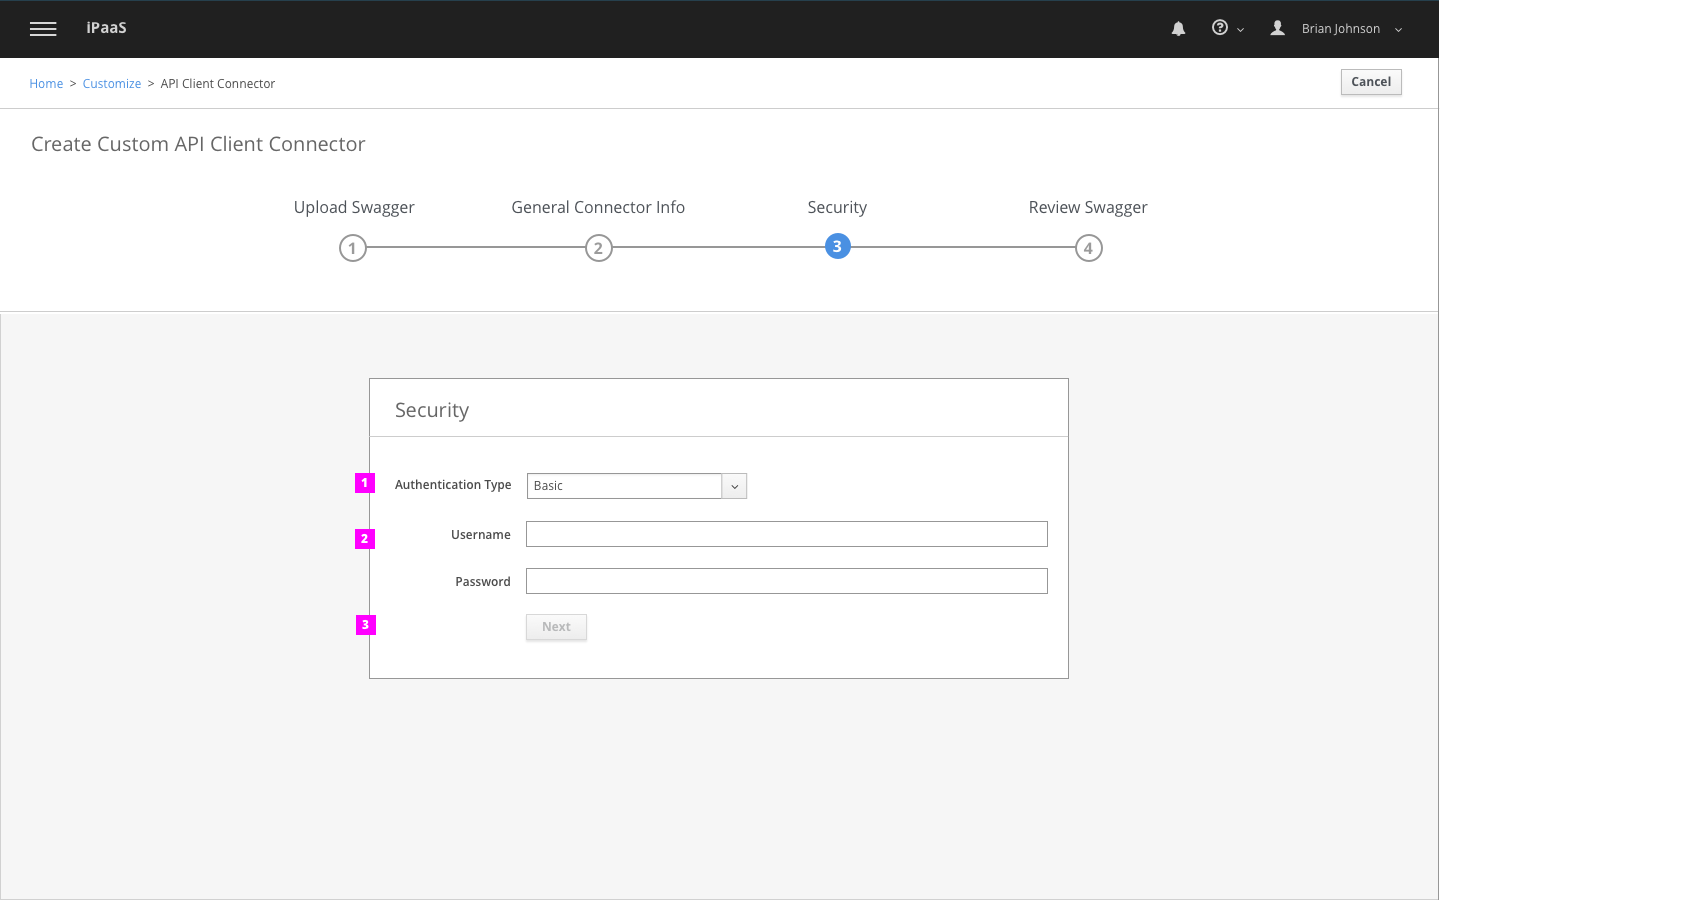
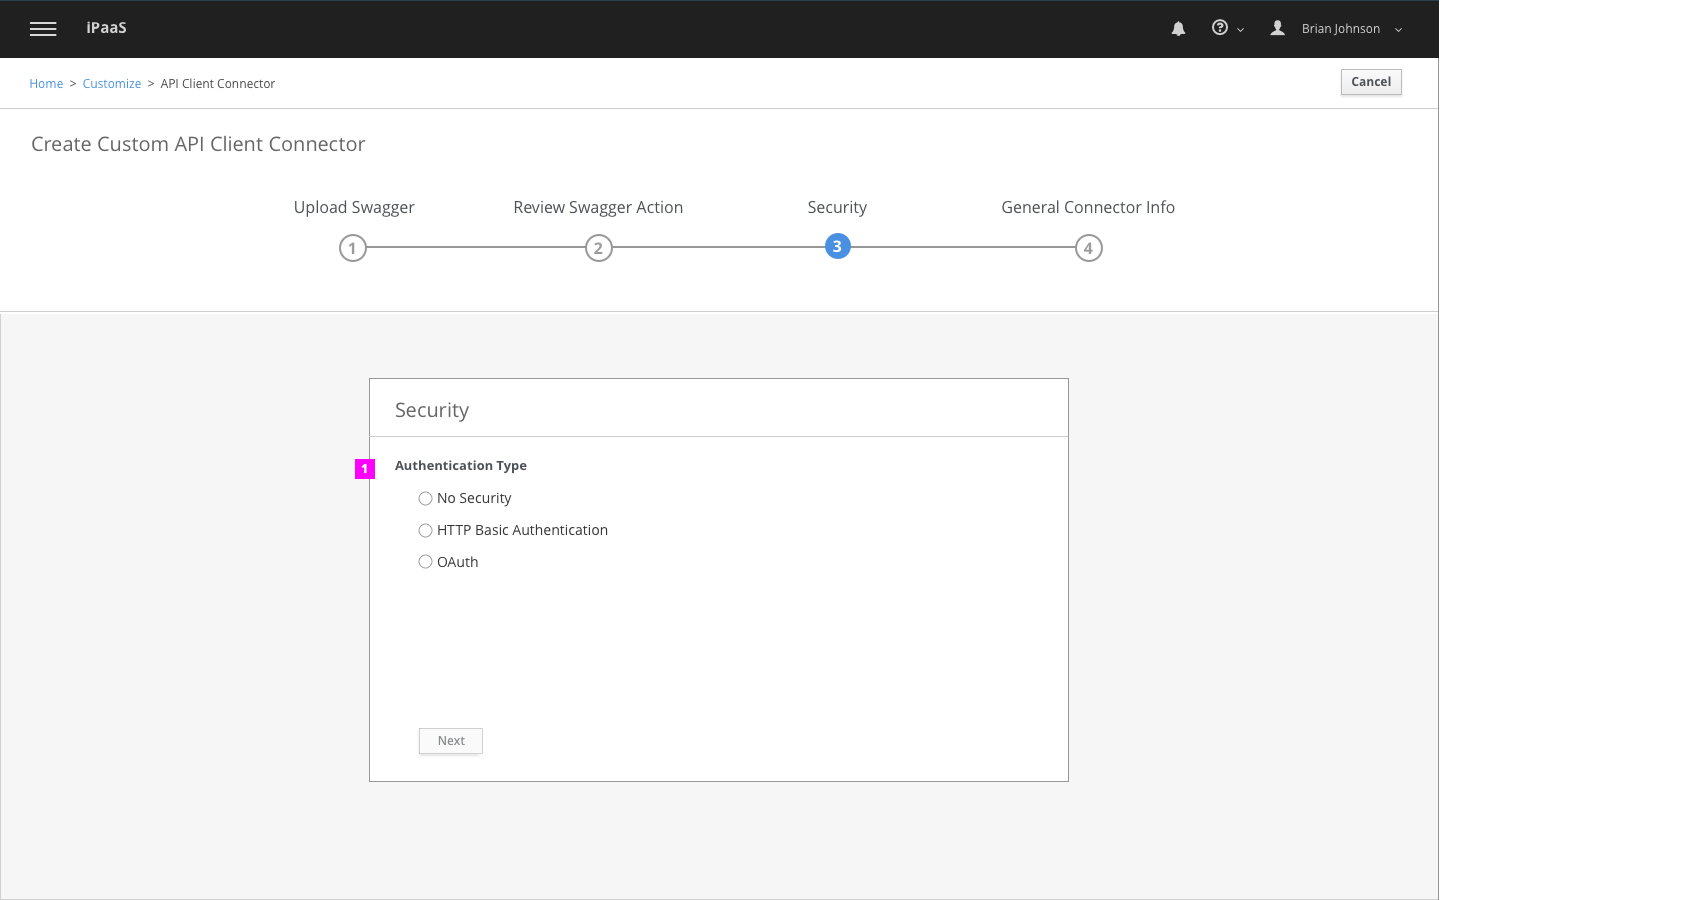
Updates to API client connector designs - mainly reorder of steps and show a summary of swagger actions instead of listing

diff --git a/designs/apiconnector/apiconnector.md b/designs/apiconnector/apiconnector.md
@@ -22,15 +22,12 @@ First step is for user to upload a swagger file either via url or file upload.
 1. **Validation Error**: If url or file uploaded isn't a supported swagger type, then user will get an error message in form on inline notification. Won't be triggered until user selects "next" button.
 1. Input field will be highlighted in red if error occurs.
 
-## General Connector Info
+## Review Swagger Actions
 
-Next step is for user to review general info of swagger
+![Image of choosing connection](img/reviewswaggerfile.png)
 
-![Image of choosing connection](img/generalconnectorinfo.png)
-
-1. User must upload an icon for connector. If no icon is uploaded, will use a default icon.
-1. General info will be auto-populated from swagger file. User can update info if they wish.
-1. Select "next" to move to next step
+1. User can review a summary of the actions associated with the swagger file in this step.
+1. Select 'Next" button to move onto next step.
 
 ## Security
 
@@ -38,16 +35,24 @@ Next step is for user to review general info of swagger
 
 ![Image of choosing connection](img/security.png)
 
-1. User selects authentication type via a list of options in Dropdown
-1. For basic security, user creates a username and password.
+1. User selects authentication type via a list of options
+
+![Image of choosing connection](img/securityconfigure.png)
+
+1. When selecting a radio button, progressive disclosure will review appropriate fields user needs to fill out for each authentication type.
 1. Select "next" button when done. Will be disabled until fields are filled in.
 
-## Review Actions
 
-![Image of choosing connection](img/reviewactions.png)
+## General Connector Info
 
+The last step is for user to review general info of swagger file.
+
+![Image of choosing connection](img/generalconnecterinfo.png)
+
+1. User must upload an icon for connector. If no icon is uploaded, will use a default icon.
+1. General info will be auto-populated from swagger file. User can update info if they wish.
+1. Select "next" to move to next step
 1. At this step the user can complete the workflow and select "create connector" in toolbar.
-1. User can review the actions associated with the swagger file in this step.
 
 ## API Connector List
 

diff --git a/README.md b/README.md
@@ -22,5 +22,8 @@ Access UX design resource and documentation for Syndesis.
 
 
 ## Create a Connection
-* ### [API Client Connector](designs/apiconnector/apiconnector.md)
 * ### [OAuth FLow](designs/oauth/oauth.md)
+
+## Customizations
+* ### [API Connector](designs/apiconnector/apiconnector.md)
+* ### [Technical Extension](designs/technical_extensions/tech_ext.md)
